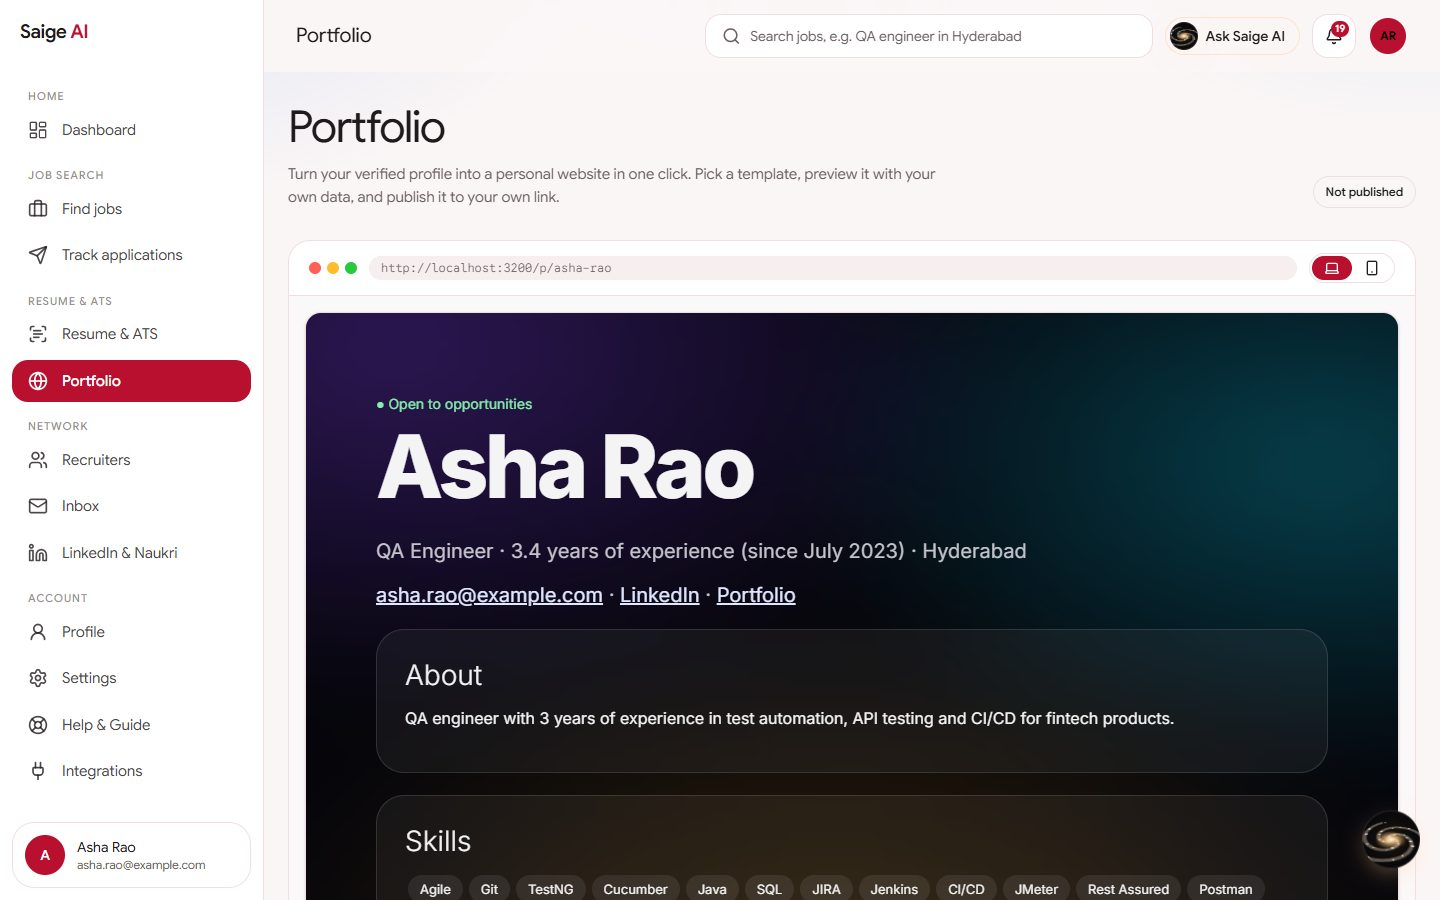
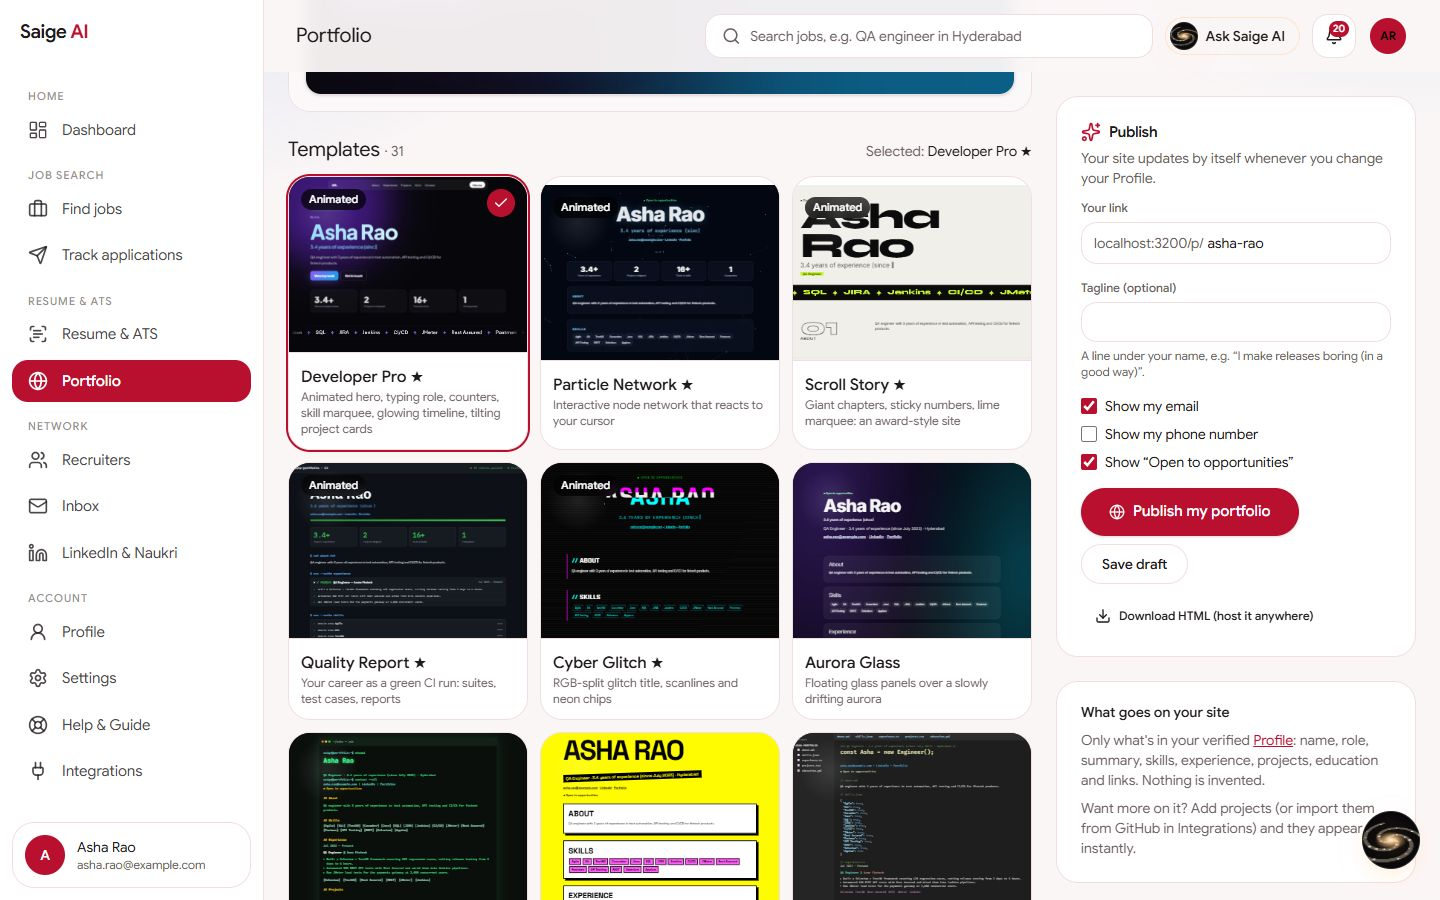
Portfolio gallery: live, animated previews of every template with your profile; hover scrolls the whole page
- Each card renders the real template (lazy, scaled to the card width), animations running
- Hover slowly scrolls through the full page; Animated badge for the flagship templates
- Thumbnail mode shrinks full-window heroes so every card shows content

diff --git a/frontend/app/(app)/portfolio/page.tsx b/frontend/app/(app)/portfolio/page.tsx
@@ -2,7 +2,7 @@
 
 import { Check, Copy, Download, ExternalLink, Eye, Globe, Laptop, Smartphone, Sparkles } from "lucide-react";
 import Link from "next/link";
-import { useCallback, useEffect, useMemo, useState } from "react";
+import { useCallback, useEffect, useMemo, useRef, useState } from "react";
 
 import { Notice, PageHeader } from "@/components/app-shell";
 import { ScanLoader } from "@/components/scan-loader";
@@ -16,6 +16,44 @@ import { cn } from "@/utils/cn";
 
 type Template = { id: string; name: string; vibe: string; colors: string[] };
 type Settings = { template: string; slug: string; published: boolean; tagline: string; show_email: boolean; show_phone: boolean; open_to_work: boolean; views: number; published_at: string | null };
+
+/** Live mini preview of a template with YOUR profile. Loads when the card scrolls into view; hover scrolls the whole page. */
+function TemplateThumb({ id, colors }: { id: string; colors: string[] }) {
+  const ref = useRef<HTMLDivElement>(null);
+  const [html, setHtml] = useState("");
+  const [scale, setScale] = useState(0.28);
+  useEffect(() => {
+    const el = ref.current;
+    if (!el) return;
+    const ro = new ResizeObserver(() => setScale(el.clientWidth / 1280));
+    ro.observe(el);
+    return () => ro.disconnect();
+  }, []);
+  useEffect(() => {
+    const el = ref.current;
+    if (!el) return;
+    const io = new IntersectionObserver(async (es) => {
+      if (!es[0].isIntersecting) return;
+      io.disconnect();
+      try {
+        const res = await request<Response>(`/portfolio/preview?template=${id}&thumb=true`, { raw: true });
+        setHtml(await res.text());
+      } catch { /* keep the colour placeholder */ }
+    }, { rootMargin: "200px" });
+    io.observe(el);
+    return () => io.disconnect();
+  }, [id]);
+  return (
+    <div ref={ref} className="thumb relative h-44 overflow-hidden border-b" style={{ background: colors[0], ["--s" as string]: scale }}>
+      {html ? (
+        <iframe title={`${id} preview`} srcDoc={html} sandbox="allow-scripts" tabIndex={-1} aria-hidden loading="lazy"
+          className="thumb-frame pointer-events-none absolute left-0 top-0 origin-top-left border-0" />
+      ) : (
+        <div className="absolute inset-0 animate-pulse" style={{ background: `linear-gradient(135deg, ${colors[0]}, ${colors[1]}33)` }} />
+      )}
+    </div>
+  );
+}
 
 export default function PortfolioPage() {
   const templates = useApi<Template[]>("/portfolio/templates");
@@ -107,11 +145,10 @@ export default function PortfolioPage() {
               {templates.data.map((t) => (
                 <button key={t.id} onClick={() => setS({ ...s, template: t.id })} aria-pressed={s.template === t.id}
                   className={cn("group overflow-hidden rounded-2xl border bg-card text-left transition-shadow hover:shadow-md", s.template === t.id && "ring-2 ring-primary")}>
-                  <div className="relative h-24" style={{ background: t.colors[0] }}>
-                    <span className="absolute left-4 top-4 h-3 w-24 rounded-full" style={{ background: t.colors[1] }} />
-                    <span className="absolute left-4 top-10 h-2 w-36 rounded-full opacity-70" style={{ background: t.colors[2] }} />
-                    <span className="absolute bottom-3 right-3 size-9 rounded-xl" style={{ background: t.colors[1] }} />
-                    {s.template === t.id && <span className="absolute right-3 top-3 grid size-6 place-items-center rounded-full bg-primary text-primary-foreground"><Check className="size-3.5" /></span>}
+                  <div className="relative">
+                    <TemplateThumb id={t.id} colors={t.colors} />
+                    {s.template === t.id && <span className="absolute right-3 top-3 grid size-7 place-items-center rounded-full bg-primary text-primary-foreground shadow"><Check className="size-4" /></span>}
+                    {t.name.includes("★") && <span className="absolute bottom-3 left-3 rounded-full bg-black/70 px-2 py-0.5 text-[11px] font-medium text-white backdrop-blur">Animated</span>}
                   </div>
                   <div className="p-3">
                     <p className="font-medium">{t.name}</p>

diff --git a/frontend/app/globals.css b/frontend/app/globals.css
@@ -699,3 +699,8 @@ body {
 .scan-word { animation: scan-fade 1.6s ease both; }
 @keyframes scan-fade { 0% { opacity: 0; transform: translateY(6px); } 15%, 85% { opacity: 1; transform: none; } 100% { opacity: 0; } }
 @media (prefers-reduced-motion: reduce) { .scan-stage, .scan-doc, .scan-line, .scan-laser, .scan-word { animation: none; } }
+
+/* Portfolio template thumbnails: a live 1280px-wide page scaled to the card (--s); hovering scrolls down the page */
+.thumb-frame { width: 1280px; height: 2600px; transform: scale(var(--s, .28)); translate: 0 0; transition: translate 6s cubic-bezier(.45, .05, .35, 1); }
+.group:hover .thumb .thumb-frame { translate: 0 calc(-2600px * var(--s, .28) + 11rem); }
+@media (prefers-reduced-motion: reduce) { .group:hover .thumb .thumb-frame { translate: 0 0; } }

diff --git a/backend/app/portfolio/router.py b/backend/app/portfolio/router.py
@@ -107,12 +107,16 @@ def _html(html: str) -> HTMLResponse:
 
 @router.get("/portfolio/preview", response_class=HTMLResponse)
 async def preview(template: str = Query(tpl.DEFAULT, max_length=40), tagline: str = Query("", max_length=160), show_email: bool = True,
-                  show_phone: bool = False, open_to_work: bool = True, user: dict = Depends(get_current_user),
+                  show_phone: bool = False, open_to_work: bool = True, thumb: bool = False, user: dict = Depends(get_current_user),
                   db: AsyncIOMotorDatabase = Depends(db_dep)):
     """The signed-in user's own portfolio in any template, before publishing."""
     d = pdata.build(await get_profile(db, user["_id"]), {"tagline": tagline, "show_email": show_email, "show_phone": show_phone,
                                                          "open_to_work": open_to_work})
-    return _html(tpl.render(template, d))
+    html = tpl.render(template, d)
+    if thumb:  # gallery thumbnails use a tall frame: full-window heroes would fill the whole card
+        fit = "<style>.hero,.cover{min-height:0!important;padding-top:70px!important;padding-bottom:50px!important}</style>"
+        html = html.replace("</head>", fit + "</head>", 1)
+    return _html(html)
 
 
 @router.get("/portfolio/download")
